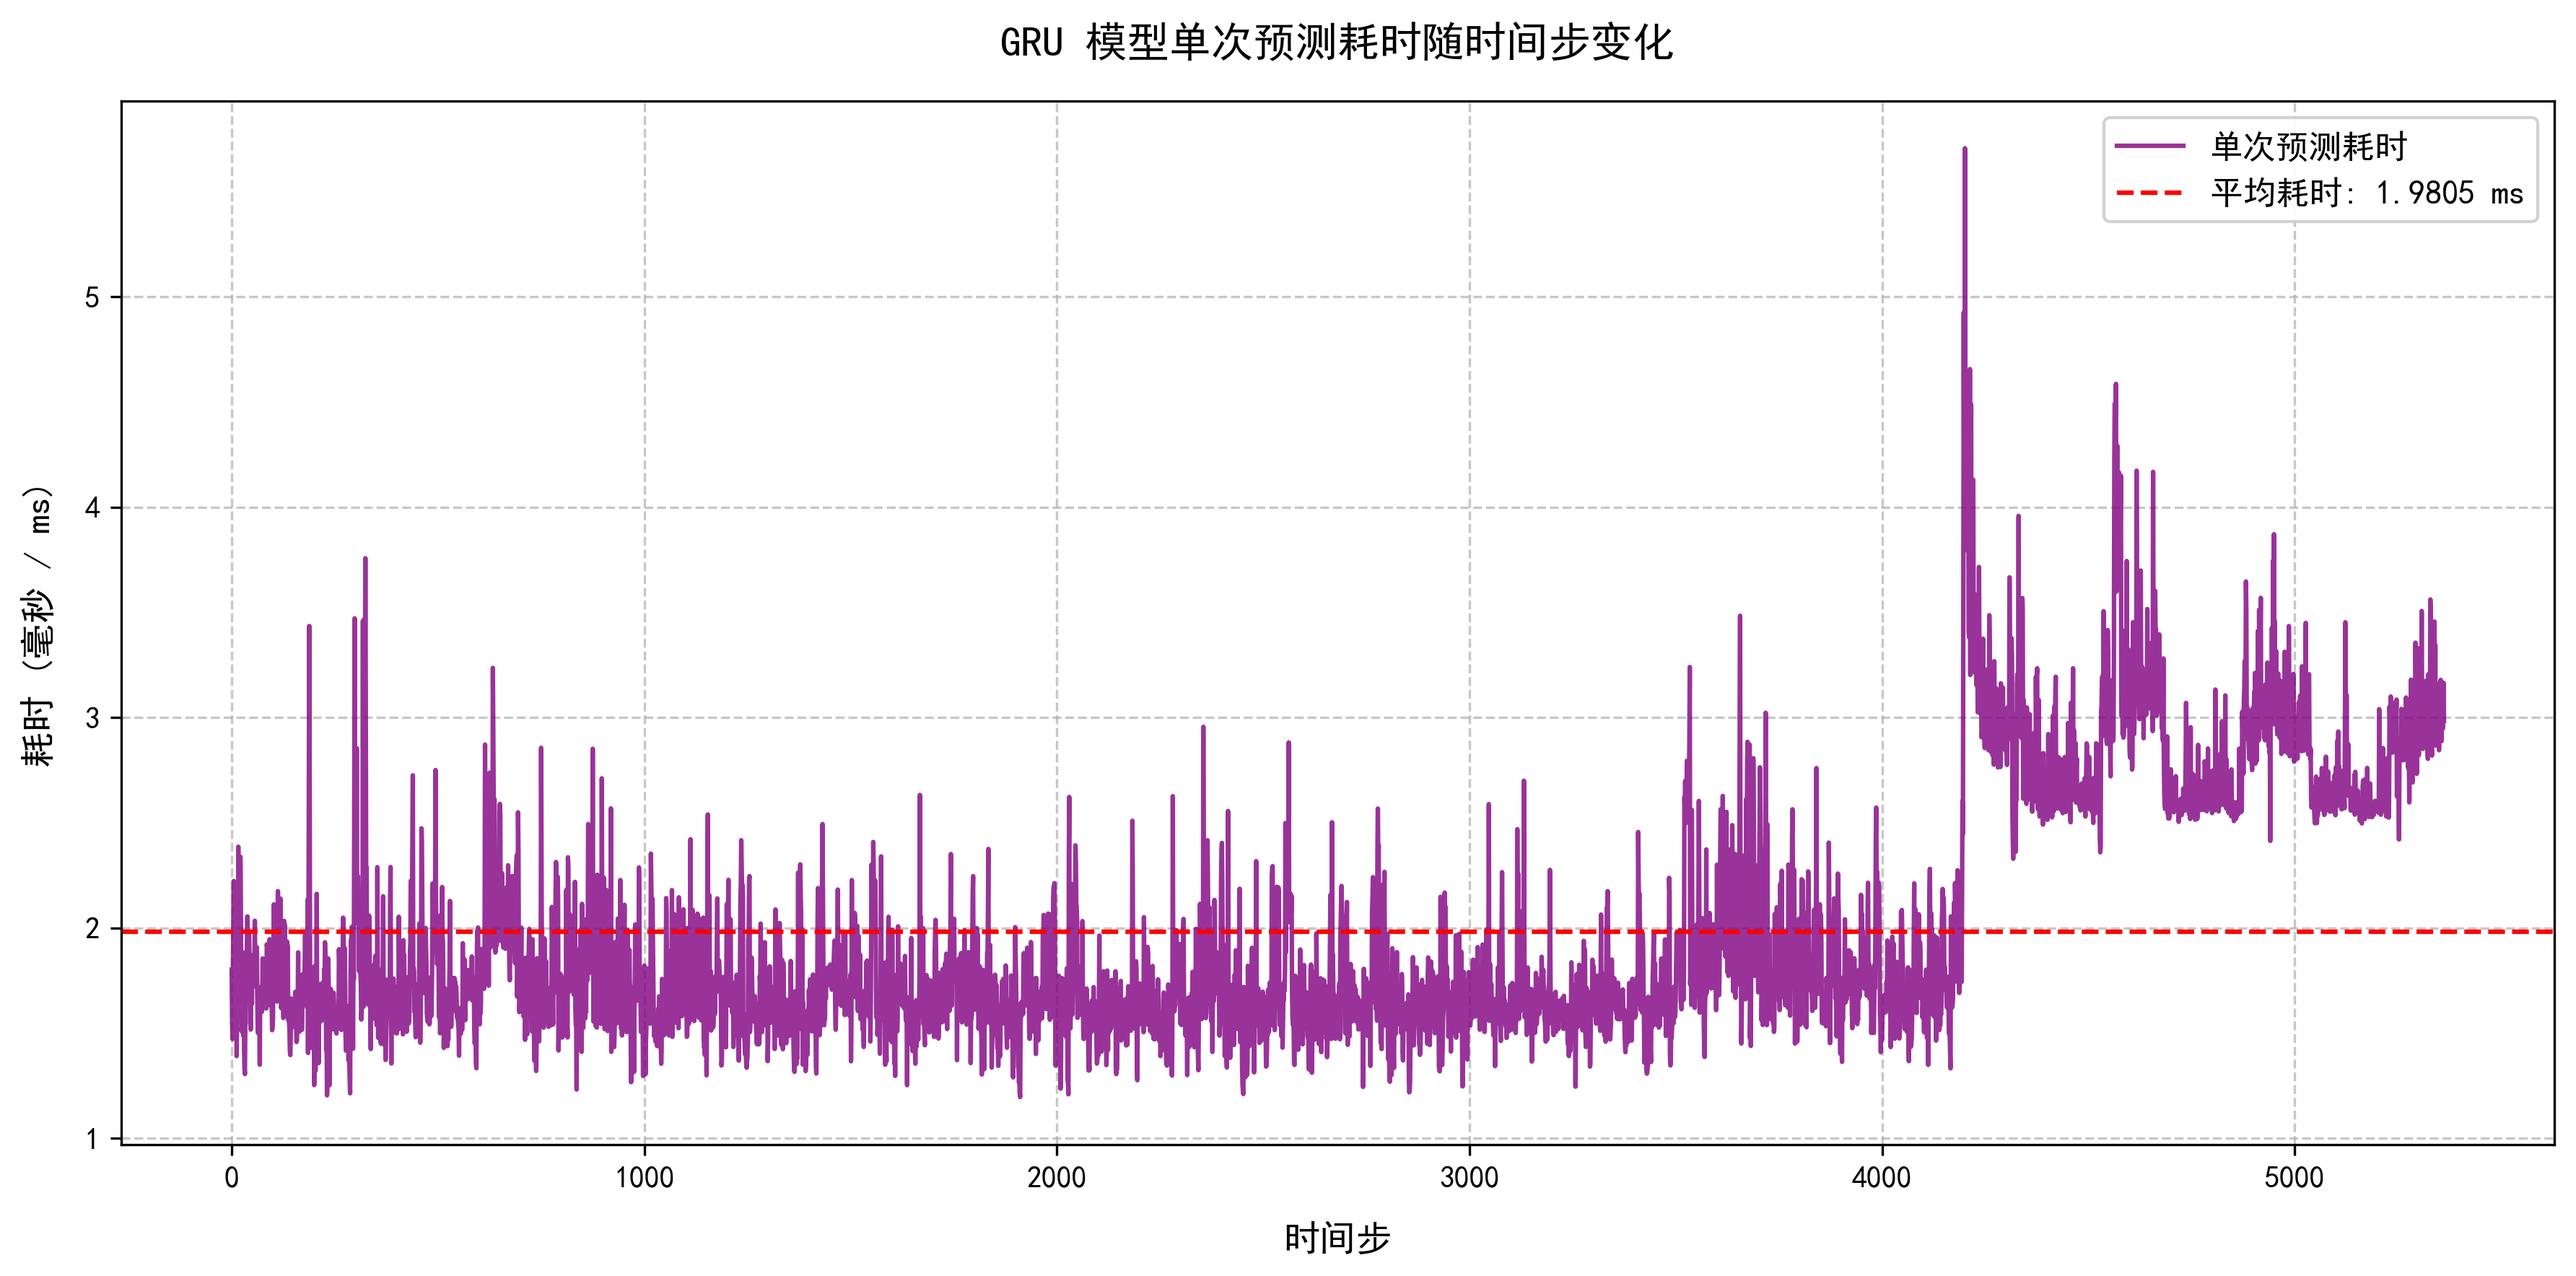
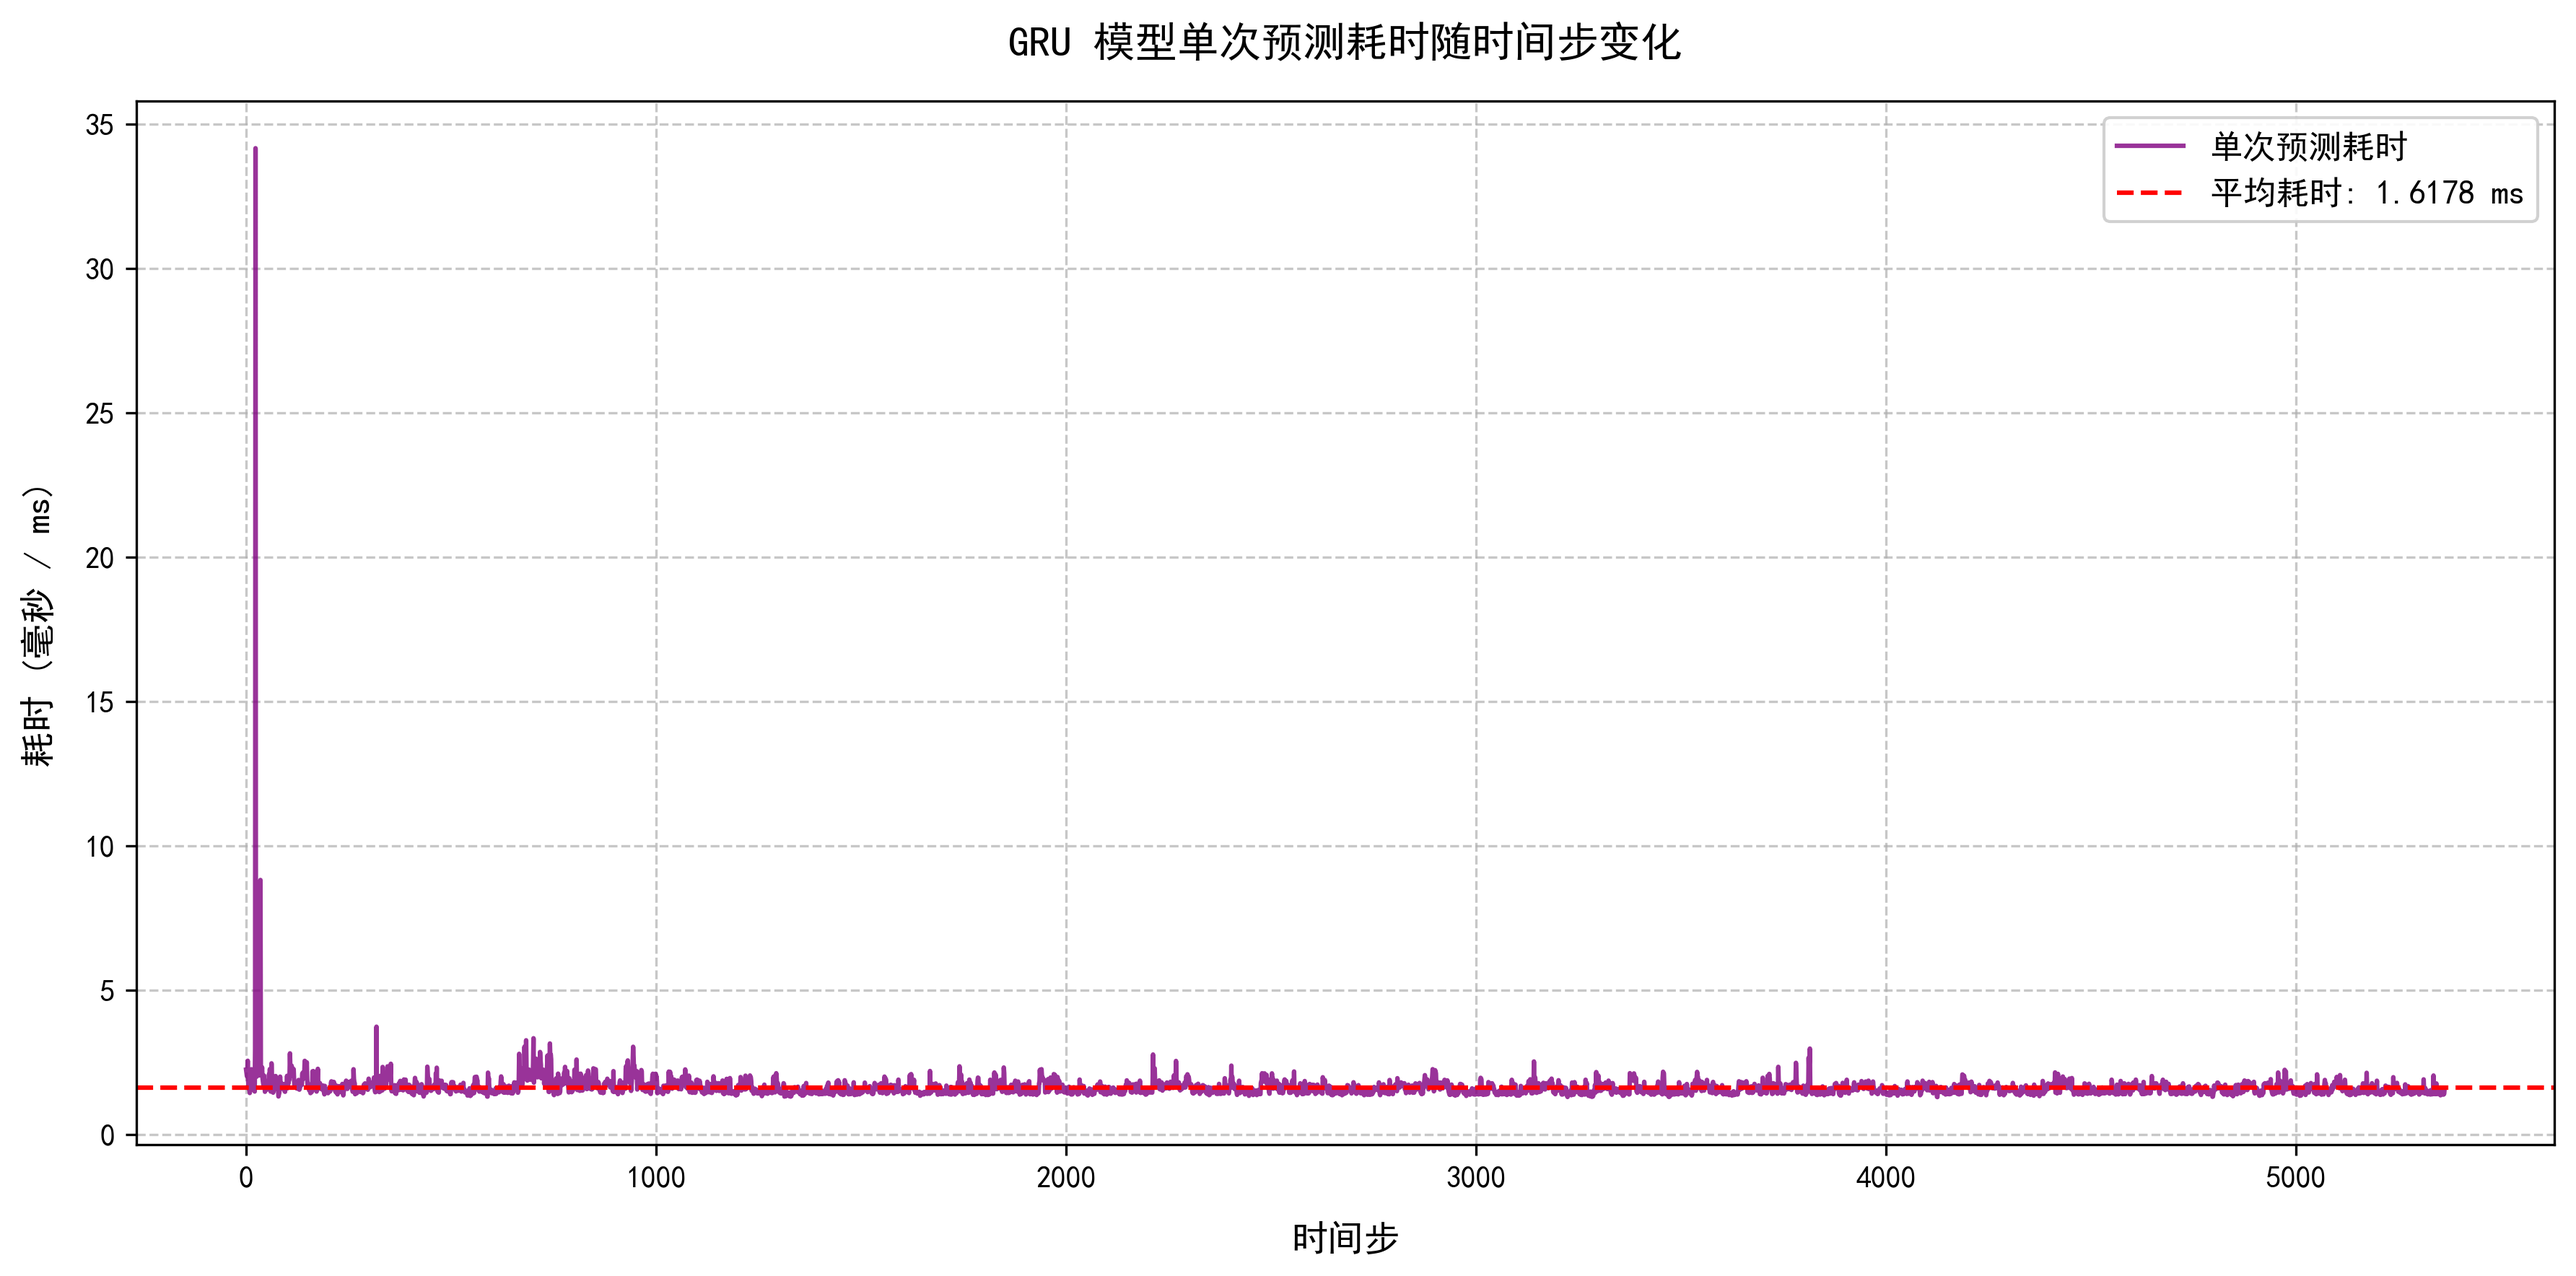
docs: 改进中文显示兼容性并更新文档说明
更新可视化脚本以支持跨平台中文字体自动检测，移除对特定字体的硬编码依赖
修改 README.md 以反映新的字体处理机制

diff --git a/visualize.py b/visualize.py
@@ -11,14 +11,41 @@ UAV 轨迹预测 GRU 模型 — 测试集推理与 3D 轨迹可视化
 """
 
 import os
+import sys
 import time
 import numpy as np
 import torch
 import matplotlib.pyplot as plt
+from matplotlib.font_manager import FontManager
 
-# 设置中文字体 (解决中文显示问题)
-plt.rcParams['font.sans-serif'] = ['SimHei']  # 指定默认字体
-plt.rcParams['axes.unicode_minus'] = False     # 解决保存图像是负号'-'显示为方块的问题
+
+def setup_chinese_font():
+    font_candidates = {
+        'win32': ['SimHei', 'Microsoft YaHei', 'SimSun'],
+        'linux': ['WenQuanYi Micro Hei', 'WenQuanYi Zen Hei', 'Noto Sans CJK SC', 'DejaVu Sans'],
+        'darwin': ['PingFang SC', 'Heiti TC', 'STHeiti', 'Arial Unicode MS'],
+    }
+
+    platform = sys.platform
+    if platform not in font_candidates:
+        print(f"⚠  警告: 未识别的操作系统 '{platform}'，尝试使用默认字体配置")
+        return
+
+    available_fonts = set(FontManager().get_font_names())
+
+    for font_name in font_candidates[platform]:
+        if font_name in available_fonts:
+            plt.rcParams['font.sans-serif'] = [font_name]
+            plt.rcParams['axes.unicode_minus'] = False
+            print(f"✅ 已配置中文字体: {font_name}")
+            return
+
+    print(f"⚠  警告: 系统中未找到可用的中文字体")
+    print(f"   候选字体列表: {', '.join(font_candidates[platform])}")
+    print(f"   图表中的中文可能显示为方块，建议安装上述字体之一")
+
+
+setup_chinese_font()
 
 
 # 从同目录导入模型类

diff --git a/README.md b/README.md
@@ -198,7 +198,7 @@ Linear (64 → 3)
 - **数据集放置**：运行步骤 1 前，需将 `OnboardGPS.csv` 放置于 `Log Files/` 目录下。该文件来自 UMAV 数据集，需自行下载。
 - **时序切分**：本项目为连续时间序列任务，训练集/测试集严格按时间顺序划分，**不可使用随机打乱切分**。
 - **原始数据列名**：`OnboardGPS.csv` 中时间戳列名拼写为 `Timpstemp`（原始数据的拼写错误），代码已做兼容处理。
-- **中文字体**：可视化脚本默认使用 `SimHei` 字体渲染中文标签。若系统未安装该字体，图表中的中文可能显示为方块，请安装对应字体或修改 `visualize.py` 中的 `plt.rcParams['font.sans-serif']` 配置。
+- **中文字体**：可视化脚本已内置跨平台中文字体自动检测机制（支持 Windows/Linux/macOS），运行时会自动选择系统中可用的中文字体。若系统中未安装任何候选中文字体，程序会打印警告但不会中断运行，图表中的中文可能显示为方块，建议安装对应平台的常用中文字体。
 - **GPU 加速**：训练与推理脚本自动检测 CUDA 设备。在 GPU 环境下推理耗时会显著降低。
 - **执行顺序**：四个脚本存在严格的依赖关系，必须按 1→2→3→4 的顺序依次执行，不可跳步。
 
